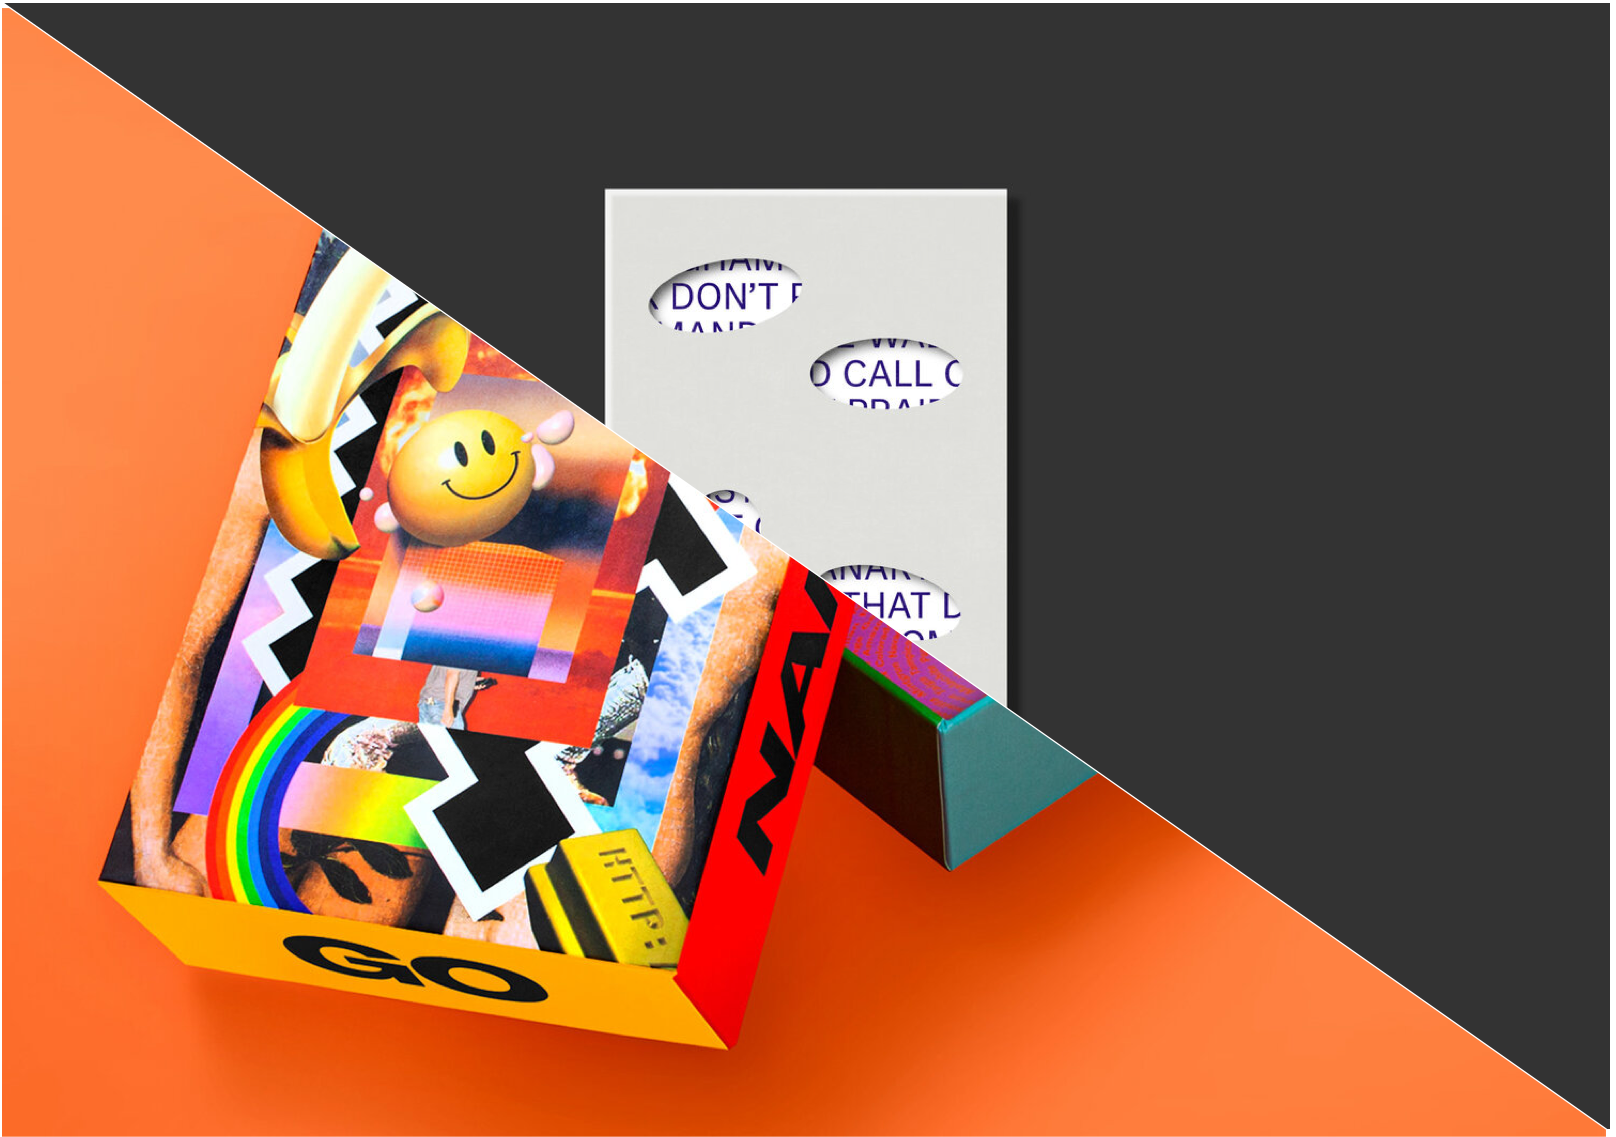
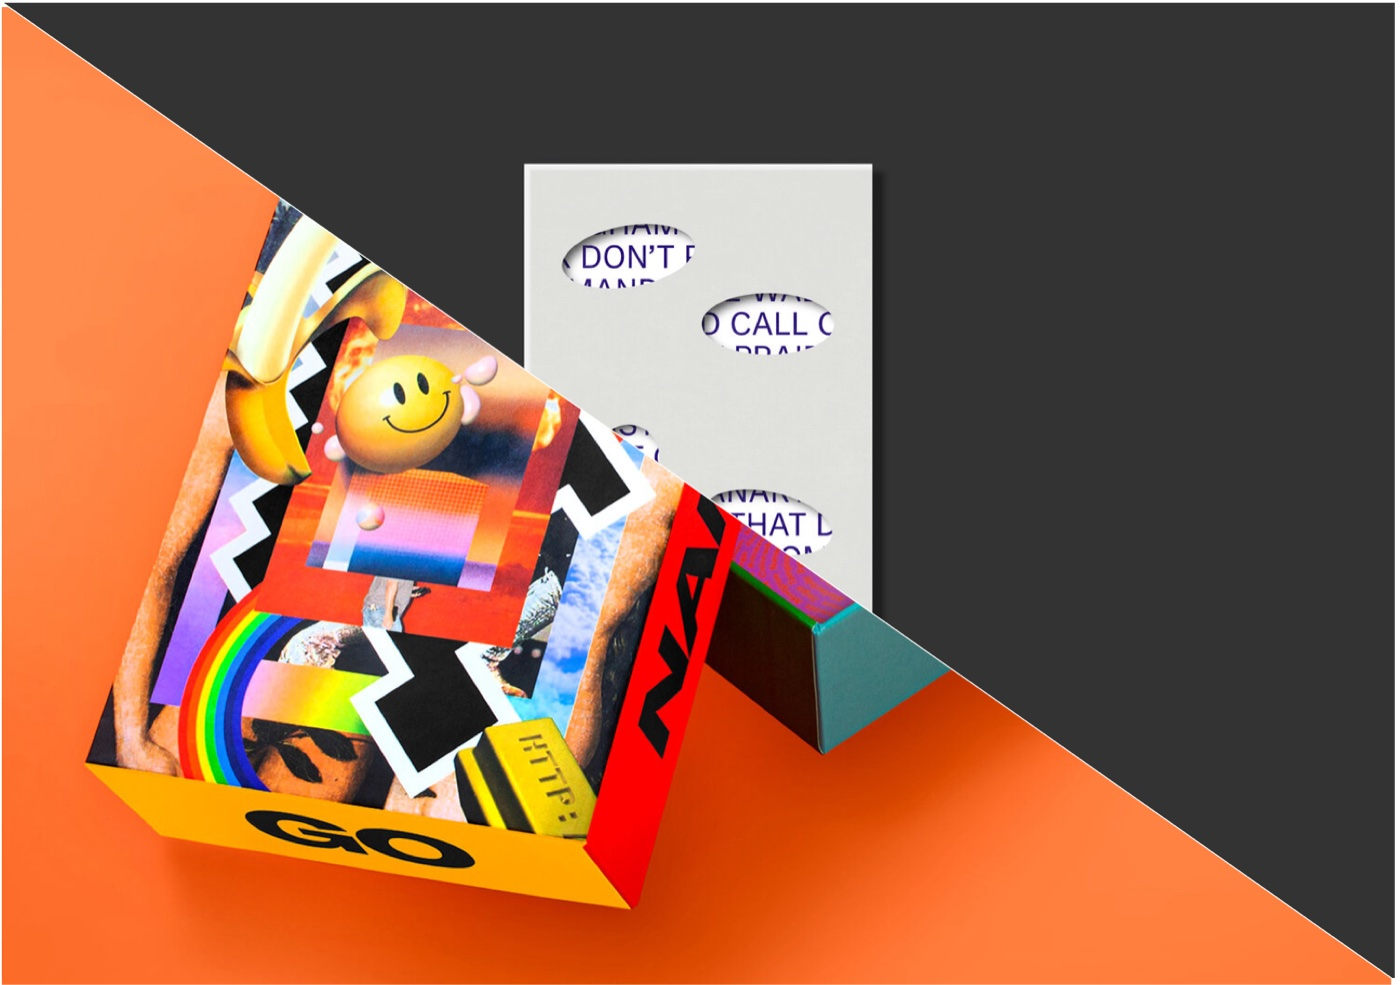
image sizing

Changed region(s): [[0.1843, 0.8223, 0.2457, 0.8528], [0.43, 0.2437, 0.4607, 0.2741], [0.2764, 0.8528, 0.3071, 0.8832]]

diff --git a/pages/shop/[slug].js b/pages/shop/[slug].js
@@ -67,7 +67,7 @@ export default function ProductPage({ product, productReviews, otherProducts }) 
                       border: i === activeImg ? "1px solid #000" : "1px solid transparent",
                     }}
                   >
-                    <img src={img} alt="" style={{ width: "100%", height: "100%", objectFit: "cover" }} />
+                    <img src={img} alt="" loading="lazy" style={{ width: "100%", height: "100%", objectFit: "cover" }} />
                   </div>
                 ))}
               </div>
@@ -161,7 +161,7 @@ export default function ProductPage({ product, productReviews, otherProducts }) 
         {product.pressImage && (
           <div className="product-full-section">
             <p className="product-full-section-label">As seen in</p>
-            <img src={product.pressImage} alt="Press mentions" style={{ maxWidth: "100%", display: "block", backgroundColor: "#fff" }} />
+            <img src={product.pressImage} alt="Press mentions" loading="lazy" style={{ maxWidth: "100%", display: "block", backgroundColor: "#fff" }} />
           </div>
         )}
 
@@ -236,7 +236,7 @@ export default function ProductPage({ product, productReviews, otherProducts }) 
           <div className="product-full-section">
             <p style={{ fontSize: 14, lineHeight: 1.7, color: "#555", marginBottom: 16 }}>{product.kickstarter.text}</p>
             {product.kickstarter.image && (
-              <img src={product.kickstarter.image} alt="Run Studio Run on Kickstarter" style={{ maxWidth: "100%", display: "block", marginBottom: 16 }} />
+              <img src={product.kickstarter.image} alt="Run Studio Run on Kickstarter" loading="lazy" style={{ maxWidth: "100%", display: "block", marginBottom: 16 }} />
             )}
             {product.kickstarter.postText && (
               <p style={{ fontSize: 14, lineHeight: 1.7, color: "#555" }}>
@@ -274,7 +274,7 @@ export default function ProductPage({ product, productReviews, otherProducts }) 
               {otherProducts.map((p) => (
                 <Link key={p.id} href={`/shop/${p.slug}`} className="product-card">
                   <div className="product-card-image">
-                    {p.images?.[0] && <img src={p.images[0]} alt={p.name} />}
+                    {p.images?.[0] && <img src={p.images[0]} alt={p.name} loading="lazy" />}
                   </div>
                   <p className="product-card-name">{p.name}</p>
                   <p className="product-card-price">${p.price.toFixed(2)}</p>

diff --git a/components/Carousel.js b/components/Carousel.js
@@ -16,7 +16,7 @@ export default function Carousel({ slides, interval = 4000 }) {
     <div className="carousel">
       <div className="carousel-stage">
         <a href={slide.url} target="_blank" rel="noopener noreferrer">
-          <img src={slide.image} alt={slide.name} />
+          <img src={slide.image} alt={slide.name} loading="lazy" />
         </a>
       </div>
       <div className="carousel-caption">

diff --git a/pages/index.js b/pages/index.js
@@ -16,7 +16,7 @@ export default function Shop() {
             <Link key={product.id} href={`/shop/${product.slug}`} className="product-card">
               <div className="product-card-image">
                 {product.images?.[0] && (
-                  <img src={product.images[0]} alt={product.name} />
+                  <img src={product.images[0]} alt={product.name} loading="lazy" />
                 )}
               </div>
               <p className="product-card-name">{product.name}</p>